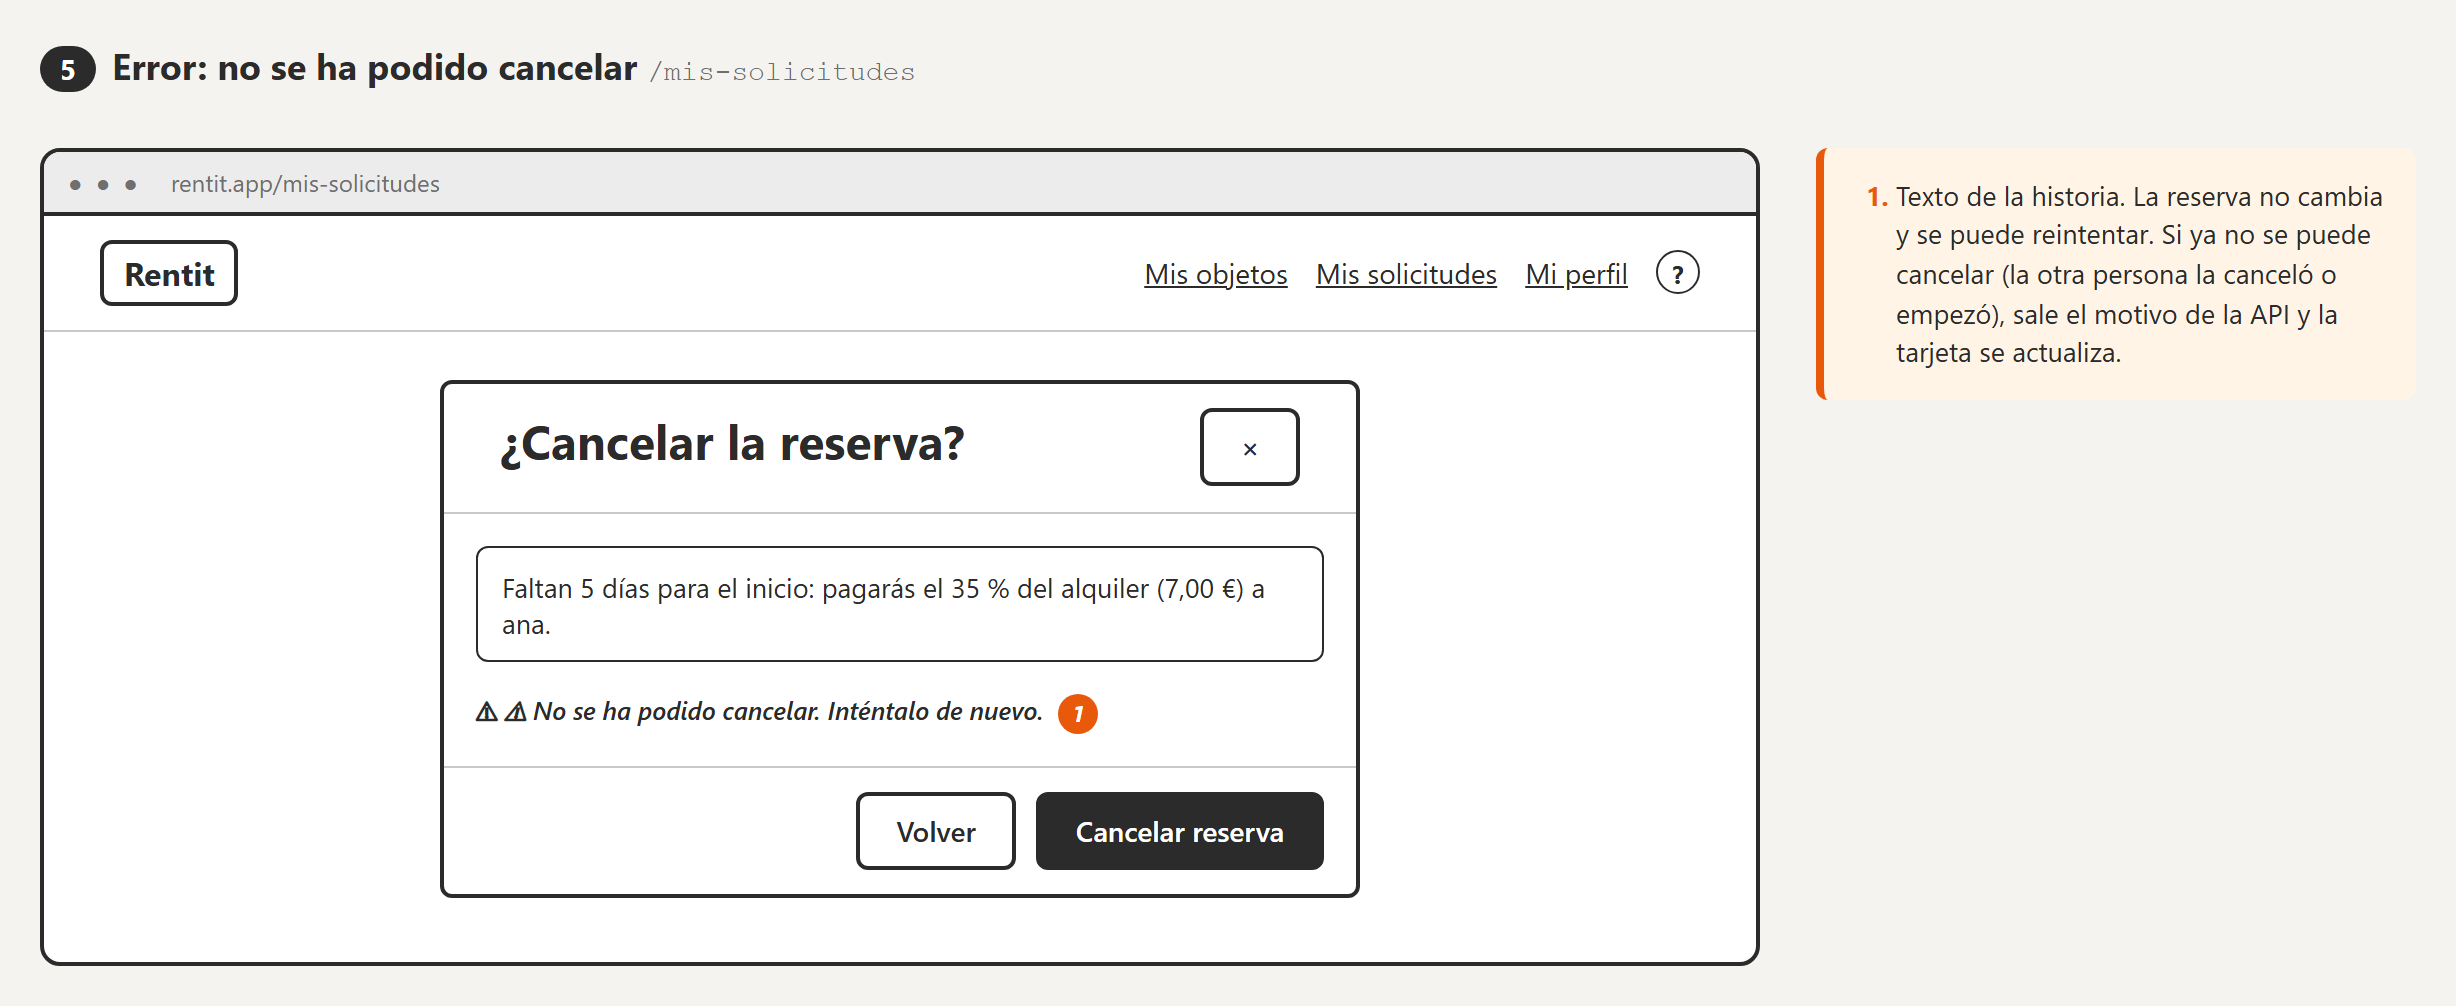
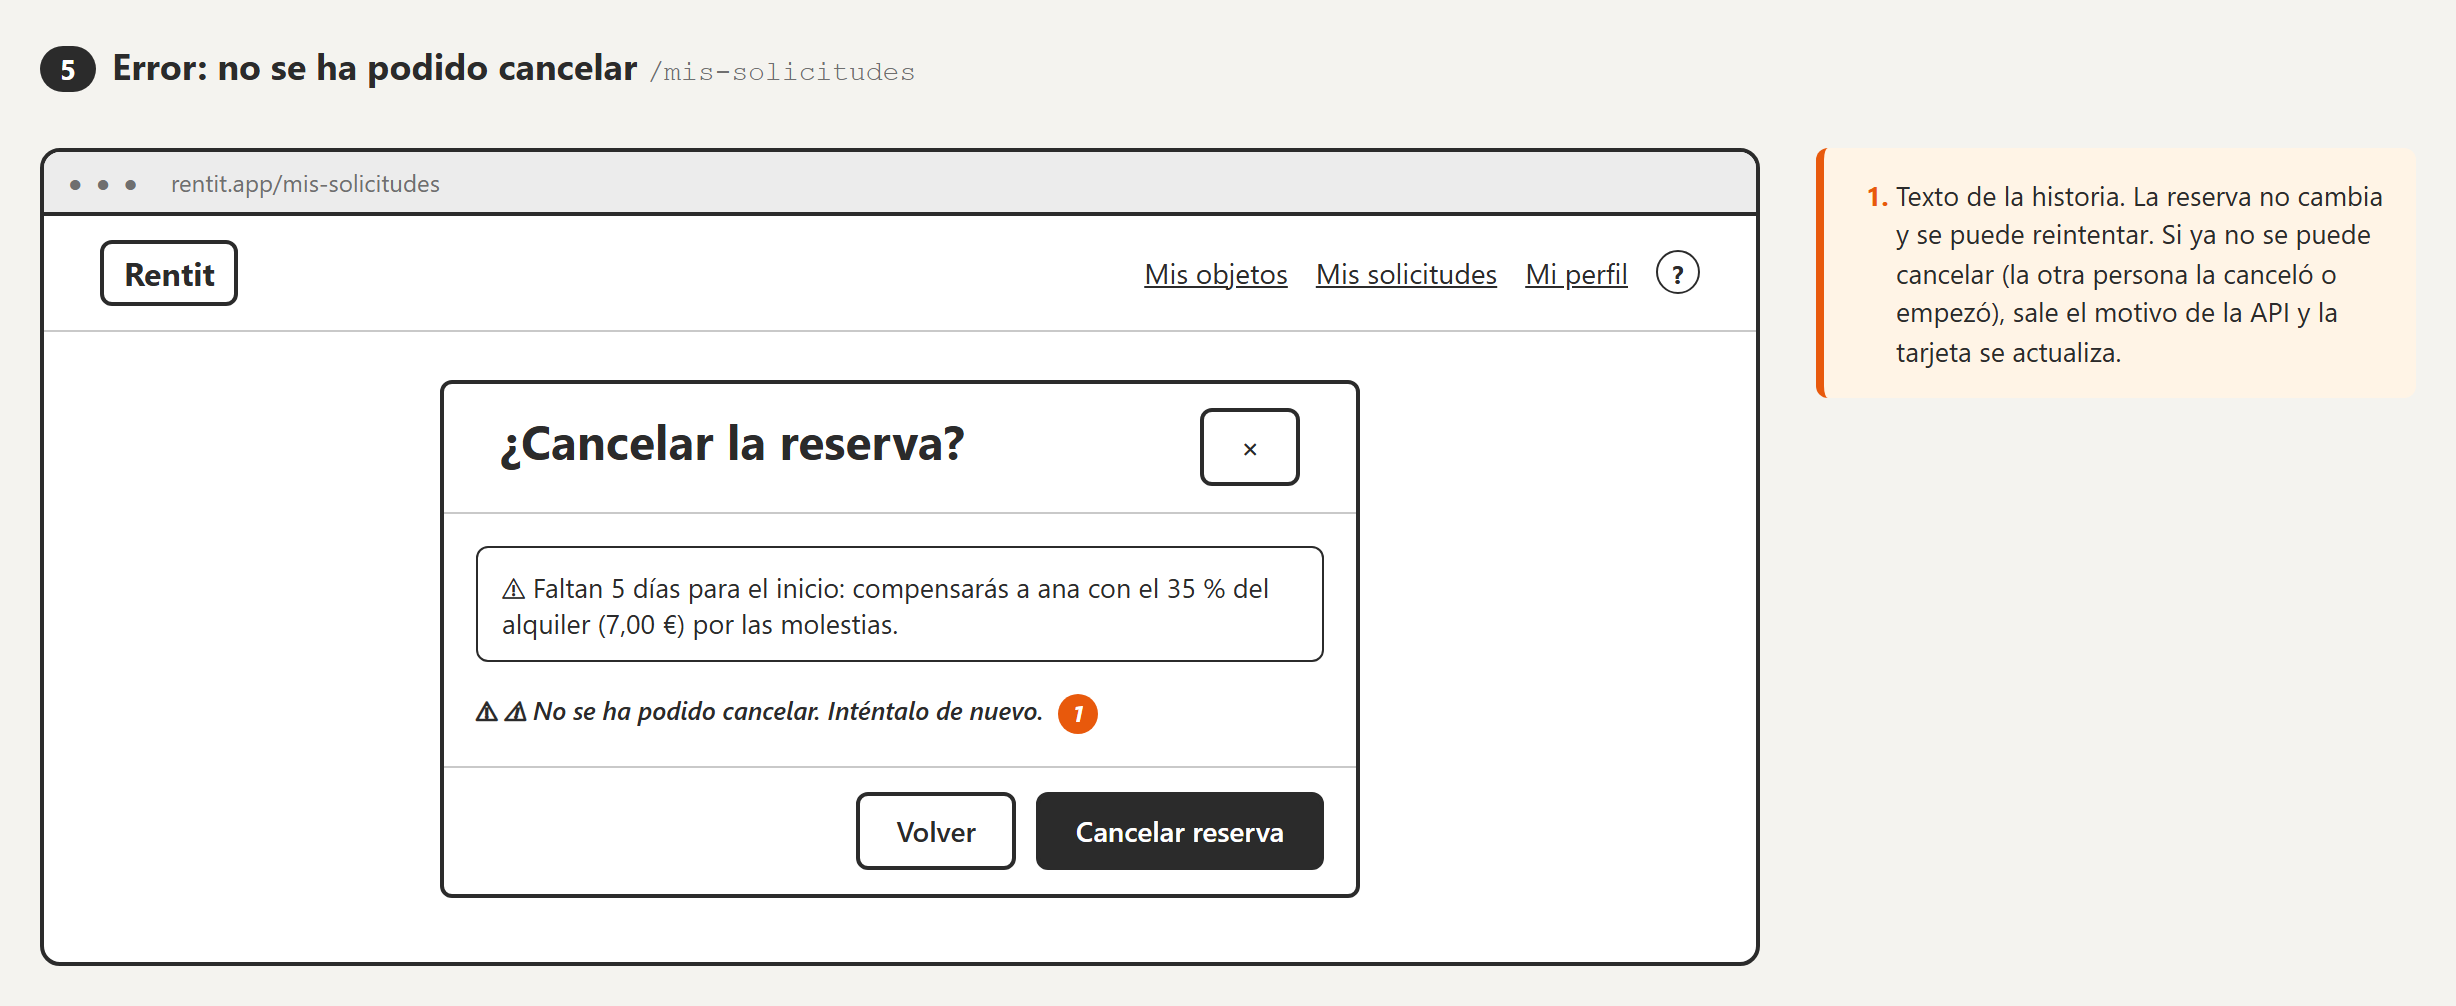
docs(wireframe): US-04.05 la cancelación como compensación por las molestias y la tabla en la ayuda (#309)

Changed region(s): [[0.1857, 0.5547, 0.5261, 0.6471], [0.7736, 0.3082, 0.9593, 0.339]]

diff --git a/docs/wireframes/US-04.05-cancelar-solicitud/index.html b/docs/wireframes/US-04.05-cancelar-solicitud/index.html
@@ -18,12 +18,13 @@
       </p>
       <p class="wf-meta">
         Con el pago al solicitar (#72): una solicitud <strong>pendiente</strong> tiene el importe bloqueado y cancelarla es
-        gratis (se libera el bloqueo); una reserva <strong>pagada</strong> sigue la tabla de penalización. Las reservas
+        gratis (se libera el bloqueo); en una reserva <strong>pagada</strong>, quien cancela compensa a la otra persona. Las reservas
         «Aceptada» del flujo anterior no tienen pago y se cancelan gratis.
       </p>
       <p class="wf-meta">
-        Penalización sobre el <strong>precio del alquiler</strong> (sin fianza ni entrega), según los días que faltan para el
-        inicio: menos de 3 → 100 %; de 3 a 7 → 35 %; 8 o más → nada. La cobra <strong>la otra persona</strong>.
+        Se presenta siempre como una <strong>compensación por las molestias</strong> para la otra persona, sobre el
+        <strong>precio del alquiler</strong> (sin fianza ni entrega), según los días que faltan para el inicio: menos de 3 →
+        100 %; de 3 a 7 → 35 %; 8 o más → nada. La tabla está en la ayuda («?»), no en la ventana.
       </p>
     </header>
 
@@ -92,18 +93,12 @@
               </div>
               <div class="wf-ventana-cuerpo">
                 <p class="wf-texto"><strong>Taladro percutor Bosch</strong> · del 21 al 24 de noviembre</p>
-                <p class="wf-aviso">Faltan 5 días para el inicio: pagarás el <strong>35 %</strong> del alquiler (<strong>7,00 €</strong>) a ana. <span class="wf-marca">1</span></p>
-                <p class="wf-texto">
-                  Pagaste: 20,00 €<br />
-                  Penalización (35 %): −7,00 €<br />
-                  <strong>Te devolvemos: 13,00 €</strong> <span class="wf-marca">2</span><br />
-                  La fianza se libera entera.
-                </p>
-                <p class="wf-ayuda">Menos de 3 días: 100 % · de 3 a 7: 35 % · 8 o más: nada. <span class="wf-marca">3</span></p>
+                <p class="wf-aviso">⚠ Faltan 5 días para el inicio: compensarás a ana con el <strong>35 %</strong> del alquiler (<strong>7,00 €</strong>) por las molestias. <span class="wf-marca">1</span></p>
+                <p class="wf-texto"><strong>Te devolvemos 13,00 €. La fianza se libera entera.</strong> <span class="wf-marca">2</span></p>
               </div>
               <div class="wf-ventana-botones">
                 <span class="wf-boton wf-secundario">Volver</span>
-                <span class="wf-boton">Cancelar reserva</span><span class="wf-marca">4</span>
+                <span class="wf-boton">Cancelar reserva</span><span class="wf-marca">3</span>
               </div>
             </div>
           </div>
@@ -114,8 +109,8 @@
             <div class="wf-ventana">
               <div class="wf-nav"><h3 class="wf-h1">¿Cancelar la reserva?</h3><span class="wf-boton wf-secundario">×</span></div>
               <div class="wf-ventana-cuerpo">
-                <p class="wf-aviso">Faltan 5 días: pagarás el 35 % del alquiler (7,00 €) a ana.</p>
-                <p class="wf-texto"><strong>Te devolvemos: 13,00 €</strong><br />La fianza se libera entera.</p>
+                <p class="wf-aviso">⚠ Faltan 5 días: compensarás a ana con el 35 % del alquiler (7,00 €) por las molestias.</p>
+                <p class="wf-texto"><strong>Te devolvemos 13,00 €. La fianza se libera entera.</strong></p>
               </div>
               <div class="wf-ventana-botones">
                 <span class="wf-boton wf-secundario wf-ancho">Volver</span>
@@ -129,10 +124,10 @@
       <ol class="wf-notas">
         <li>
           Criterio 2: el porcentaje y el importe según los días que faltan, contados desde hoy hasta el inicio con la fecha
-          de España. Es el texto de la historia.
+          de España, presentados como compensación por las molestias. La tabla de porcentajes (criterio 3) está en la
+          ayuda: pantalla 8.
         </li>
-        <li>Criterio 4: al arrendatario se le devuelve lo pagado menos la penalización, que cobra el propietario.</li>
-        <li>Criterio 3: la tabla, para que se entienda de dónde sale el porcentaje.</li>
+        <li>Criterio 4: al arrendatario se le devuelve lo pagado menos la compensación, que recibe el propietario.</li>
         <li>
           Confirma. Mientras se procesa dice «Cancelando…» y los botones están desactivados. «Volver», «×» o Esc cierran sin
           cambiar nada.
@@ -158,7 +153,7 @@
               </div>
               <div class="wf-ventana-cuerpo">
                 <p class="wf-texto"><strong>Bicicleta de montaña</strong> · del 18 al 19 de noviembre · solicitada por bruno</p>
-                <p class="wf-aviso">Faltan 2 días para el inicio: pagarás el <strong>100 %</strong> del alquiler (<strong>30,00 €</strong>) a bruno. <span class="wf-marca">1</span></p>
+                <p class="wf-aviso">⚠ Faltan 2 días para el inicio: compensarás a bruno con el <strong>100 %</strong> del alquiler (<strong>30,00 €</strong>) por las molestias. <span class="wf-marca">1</span></p>
                 <p class="wf-texto">A bruno se le devuelve todo lo que pagó (30,00 €) y se libera su fianza. <span class="wf-marca">2</span></p>
               </div>
               <div class="wf-ventana-botones">
@@ -170,7 +165,7 @@
         </div>
       </div>
       <ol class="wf-notas">
-        <li>Criterio 3: con menos de 3 días, el 100 %. La penalización queda registrada a cargo del propietario.</li>
+        <li>Criterio 3: con menos de 3 días, el 100 %. La compensación queda registrada a cargo del propietario.</li>
         <li>Criterio 4: si cancela el propietario, el arrendatario recupera todo.</li>
       </ol>
     </section>
@@ -193,11 +188,10 @@
               </div>
               <div class="wf-ventana-cuerpo">
                 <p class="wf-texto"><strong>Escalera de aluminio</strong> · del 5 al 6 de diciembre</p>
-                <p class="wf-aviso">Cancelar ahora es gratis: ana todavía no la ha aceptado. Liberamos los 8,00 € bloqueados en tu tarjeta. <span class="wf-marca">1</span></p>
               </div>
               <div class="wf-ventana-botones">
                 <span class="wf-boton wf-secundario">Volver</span>
-                <span class="wf-boton">Cancelar solicitud</span>
+                <span class="wf-boton">Cancelar solicitud</span><span class="wf-marca">1</span>
               </div>
             </div>
           </div>
@@ -205,8 +199,8 @@
       </div>
       <ol class="wf-notas">
         <li>
-          Supuesto de la historia: una solicitud pendiente se cancela gratis; con el pago al solicitar, se libera el bloqueo
-          (#72). En una «Aceptada» del flujo anterior no hay pago: el texto dice solo que es gratis.
+          Si cancelar es gratis no se dice nada de dinero: la ventana solo pide confirmar. Con el pago al solicitar, se
+          libera el bloqueo (#72); en una «Aceptada» del flujo anterior no hay pago.
         </li>
       </ol>
     </section>
@@ -225,7 +219,7 @@
             <div class="wf-ventana">
               <div class="wf-nav"><h3 class="wf-h1">¿Cancelar la reserva?</h3><span class="wf-boton wf-secundario">×</span></div>
               <div class="wf-ventana-cuerpo">
-                <p class="wf-aviso">Faltan 5 días para el inicio: pagarás el 35 % del alquiler (7,00 €) a ana.</p>
+                <p class="wf-aviso">⚠ Faltan 5 días para el inicio: compensarás a ana con el 35 % del alquiler (7,00 €) por las molestias.</p>
                 <p class="wf-error">⚠ No se ha podido cancelar. Inténtalo de nuevo. <span class="wf-marca">1</span></p>
               </div>
               <div class="wf-ventana-botones">
@@ -259,12 +253,12 @@
               <div class="wf-tarjeta">
                 <p class="wf-ayuda">Lo ve bruno (arrendatario)</p>
                 <p class="wf-texto"><strong>Taladro percutor Bosch</strong> · 21–24 nov. 2026 · <span class="wf-chip">Cancelada</span> <span class="wf-marca">1</span></p>
-                <p class="wf-aviso">La cancelaste tú el 16 de noviembre. Penalización: 7,00 € (35 %) para ana. Te hemos devuelto 13,00 €. <span class="wf-marca">2</span></p>
+                <p class="wf-aviso">La cancelaste tú el 16 de noviembre. Compensación a ana por las molestias: 7,00 € (35 %). Te hemos devuelto 13,00 €. <span class="wf-marca">2</span></p>
               </div>
               <div class="wf-tarjeta">
                 <p class="wf-ayuda">Lo ve ana (propietaria)</p>
                 <p class="wf-texto"><strong>Taladro percutor Bosch</strong> · 21–24 nov. 2026 · <span class="wf-chip">Cancelada</span></p>
-                <p class="wf-aviso">La canceló bruno el 16 de noviembre. Recibes la penalización: 7,00 € (35 %). <span class="wf-marca">3</span></p>
+                <p class="wf-aviso">La canceló bruno el 16 de noviembre. Recibes 7,00 € (35 %) como compensación por las molestias. <span class="wf-marca">3</span></p>
               </div>
             </div>
           </div>
@@ -272,7 +266,7 @@
       </div>
       <ol class="wf-notas">
         <li>Criterio 6: la reserva pasa a «Cancelada», desaparece el botón y las fechas quedan libres.</li>
-        <li>Quién canceló, cuándo, la penalización y lo devuelto. Sin penalización: «Sin penalización».</li>
+        <li>Quién canceló, cuándo, la compensación y lo devuelto. Si fue gratis, solo quién y cuándo.</li>
         <li>La otra persona lo ve la próxima vez que abre «Mis solicitudes» (las notificaciones son de US-06.03, Sprint 3).</li>
       </ol>
     </section>
@@ -298,7 +292,7 @@
                 <h3 class="wf-h1">Revisa tu solicitud</h3>
                 <p class="wf-ayuda">Desde: martes, 17 de noviembre · Hasta: miércoles, 18 de noviembre</p>
                 <p class="wf-texto">Importe del alquiler (2 días): 12,00 €</p>
-                <p class="wf-aviso">⚠ Empieza en menos de 3 días: si cancelas una vez aceptada, pagarás el alquiler completo. <span class="wf-marca">1</span></p>
+                <p class="wf-aviso">⚠ Empieza en menos de 3 días: si cancelas una vez aceptada, compensarás al propietario con el alquiler completo por las molestias. <span class="wf-marca">1</span></p>
                 <div class="wf-caja">Pago (tarjeta), como en US-07.01</div>
                 <p class="wf-texto"></p>
                 <span class="wf-boton wf-ancho">Enviar solicitud</span>
@@ -313,6 +307,44 @@
           solicitar, el cobro llega al aceptar, así que se propone «una vez aceptada». El texto exacto se confirma con la
           historia.
         </li>
+      </ol>
+    </section>
+
+    <p class="wf-flecha">Desde el «?» de la cabecera</p>
+
+    <section class="wf-pantalla" data-captura="8-ayuda">
+      <h2><span class="wf-paso">8</span>Ayuda: «Cancelar una reserva» con la tabla <code>/ayuda#cancelar</code></h2>
+      <div class="wf-dispositivos">
+        <div class="wf-escritorio" data-url="rentit.app/ayuda#cancelar">
+          <nav class="wf-nav">
+            <span class="wf-logo">Rentit</span>
+            <span class="wf-enlaces"><span class="wf-enlace">Mis objetos</span><span class="wf-enlace">Mis solicitudes</span><span class="wf-enlace">Mi perfil</span><span class="wf-icono-ayuda" title="Ayuda">?</span></span>
+          </nav>
+          <div class="wf-contenido">
+            <h3 class="wf-h1">Cancelar una reserva</h3>
+            <p class="wf-texto">
+              1. En «Mis solicitudes», despliega la reserva.<br />
+              2. Pulsa «Cancelar reserva» (o «Cancelar solicitud» si todavía está pendiente). Si la reserva ya está pagada,
+              verás la compensación que te tocaría pagar hoy.<br />
+              3. Pulsa «Cancelar reserva» para confirmarlo o «Volver» para dejarla como está.<br />
+              4. Si la reserva ya está pagada, quien cancela compensa a la otra persona por las molestias con una parte del
+              alquiler, según los días que faltan para el inicio: <span class="wf-marca">1</span>
+            </p>
+            <div class="wf-caja">
+              Días que faltan para el inicio · Compensación por las molestias<br />
+              Menos de 3 · 100 % del alquiler<br />
+              De 3 a 7 · 35 % del alquiler<br />
+              8 o más · Nada
+            </div>
+            <p class="wf-ayuda">
+              Una solicitud pendiente se cancela gratis. La fianza y la entrega no cuentan para la compensación, y la fianza
+              se libera entera.
+            </p>
+          </div>
+        </div>
+      </div>
+      <ol class="wf-notas">
+        <li>Criterio 3: la tabla va en la ayuda para que la ventana de cancelar se quede corta (decisión de Kai, 16/11).</li>
       </ol>
     </section>
   </body>
